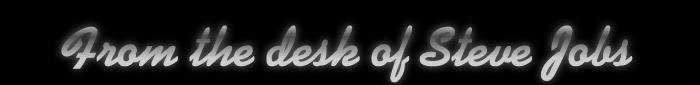
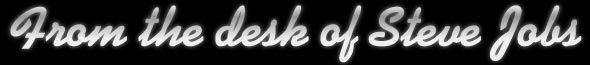
added captions, debugging

diff --git a/public/javascripts/application.js b/public/javascripts/application.js
@@ -10,7 +10,7 @@ function Game() {
     game.paused       = true;
     game.defeated     = false;
     game.limit        = 30000; //milliseconds
-    game.score        = 0;
+    game.score        = 60;
     game.steve        = new Steve(game);
     game.fireball     = new Fireball(game);
     game.input        = new Input(game);
@@ -22,6 +22,7 @@ function Game() {
     game.timer.initialize();
     
     game.show_hud("intro");
+    $("#defeat").hide();
   };
   
   this.show_hud = function(page) {
@@ -33,8 +34,9 @@ function Game() {
     } else if (page == "help") {
       $(".start").unbind("click").click(function(){ game.start(); });
     } else if (page == "results") {
-      $(".score").html( this.score + "<span>emails sent</span>");
+      $(".score").html("<strong>" + this.score + "</strong><span>emails sent!</span><span class='caption'>" + this.get_caption(this.score) + "</span>");
       $(".try_again").unbind("click").click(function(){ game.reset(); });
+      this.initialize_sharing();
     }
   };
   
@@ -81,8 +83,10 @@ function Game() {
     
   this.defeat = function() {
     if (this.defeated==false) {
+      var game = this;
       $("#game").hide();
       $("#defeat").show();
+      $(".try_again").unbind("click").click(function(){ game.reset(); });
       this.defeated     = true;
       this.allow_input  = false;
       this.steve.stop();
@@ -108,53 +112,32 @@ function Game() {
     this.score+=1;
   };
   
-  this.tally_results = function() {
-    var game    = this;
-    
-    $("h3","#results").remove();
-    $("h1","#results").remove();
-    $("p","#results").remove();
-    
-    var results = $("#results").fadeIn(500);
-    var title   = $("<h1 class='title'>GAME OVER!</h1>").appendTo(results);
-    
-    results.oneTime(3000, function(){ 
-      loading.remove();
+  this.initialize_sharing = function() {
+    var game = this;
       
-      var try_again     = $("<div></div>").addClass("bttn_restart").text("TRY AGAIN").click(function(){
-        results.fadeOut(500);
-        game.start();
-      }).appendTo(results);
-      
-      var restart_game  = $("<div></div>").addClass("quit").text("Quit ...").click(function(){
-          game.reset();
-      }).appendTo(results);
-      
-      $("#share","#results").click(function(){
-        FB.ui({
-            method    : 'stream.publish',
-            attachment: {
-              name  : 'From the Desk of Steve Jobs',
-              caption: 'I wrote ' + game.score + ' emails from the desk of Steve Jobs!',
-              description : ( game.score + " emails sent in " + game.max_time + " seconds, averaging " + (game.score/game.max_time) + " emails/second." ),
-              href: 'http://stevejobs.syndeolabs.com/'
-            },
-            action_links: [
-              { text: 'Go, Fireball!', href: 'http://stevejobs.syndeolabs.com/' }
-            ]
+    $(".share").click(function(){
+      FB.ui({
+          method    : 'stream.publish',
+          attachment: {
+            name  : 'From the Desk of Steve Jobs',
+            caption: 'I wrote ' + game.score + ' emails from the desk of Steve Jobs!',
+            description : ( game.score + " emails sent in " + game.max_time + " seconds, averaging " + (game.score/game.max_time) + " emails/second." ),
+            href: 'http://stevejobs.syndeolabs.com/'
           },
-          function(response) {
-            if (response && response.post_id) {
-              alert('Post was published.');
-            } else {
-              alert('Post was not published.');
-            }
+          action_links: [
+            { text: 'Go, Fireball!', href: 'http://stevejobs.syndeolabs.com/' }
+          ]
+        },
+        function(response) {
+          if (response && response.post_id) {
+            alert('Post was published.');
+          } else {
+            alert('Post was not published.');
           }
-        );
-      }); 
+        }
+      );
+    }); 
 
-    });
-    
   };
   
   this.initialize_behaviours = function() {
@@ -165,18 +148,26 @@ function Game() {
     });
   };
   
-  this.get_caption = function() {
+  this.get_caption = function(score) {
     
-    var win_captions  = ["Is that you, Gruber?","The real Fake Steve is in da house!","You took the words right out of Steve's mouth."];
-    var lose_captions = ["You're a Flash fan aren't you?", "You've been spending too much time with Outlook, son.", "Go back to designing magic mice."];
-    
-    if (this.score > this.goal) {
-      return win_captions[Math.floor(Math.random()*win_captions.length)];
-    } else if (this.score < this.goal) {
-      return lose_captions[Math.floor(Math.random()*lose_captions.length)];
-    } else {
-      return "Your AppleTV team needs you.";
+    if (score > 70) {
+      return "Is that you, Gruber?";
+    } else if (score > 50 && score <= 69) {
+      return "You're an Apple Genius!";
+    } else if (score > 40 && score <= 49) {
+      return "You took the words right out of Steve's mouth.";
+    } else if (score > 30 && score <= 39) {
+      return "Not bad, for a dog.";
+    } else if (score > 20 && score <= 29) {
+      return "You've been spending too much time with Outlook.";
+    } else if (score > 10 && score <= 19) {
+      return "Type faster, Fireball!";
+    } else if (score > 5 && score <= 9) {
+      return "Too slow, Fireball. Keep trying."
+    } else if (score < 4) {
+      return "You're a Flash fan aren't you?";
     }
+    
   };
 }
 
@@ -273,12 +264,12 @@ function Steve(game) {
       everyTime(200,function(){
         $(this).toggleClass("half_awake_1").toggleClass("half_awake_2");
         if (steps < search_start) {
-          console.log(steps + " STARTING TO SEARCH ...");
+          //console.log(steps + " STARTING TO SEARCH ...");
         } else if (steps>=search_start && steps<=search_end) {
-          console.log(steps + " SEARCHING...");
+          //console.log(steps + " SEARCHING...");
           if (st.game.paused==false) st.game.defeat();        
         } else if (steps>search_end) {
-          console.log(steps + " STOPPING...");
+          //console.log(steps + " STOPPING...");
           $(this).removeClass("half_awake_1").removeClass("half_awake_2");
           $(this).stopTime();
           st.start();
@@ -352,7 +343,7 @@ function Timer(game) {
   this.limit     = game.limit;
   
   this.initialize = function() {
-    this.dom.text(Math.round(this.limit/1000));
+    this.dom.removeClass("urgent").text(Math.round(this.limit/1000));
     this.stop();
   };
   this.render = function() {

diff --git a/public/stylesheets/application.css b/public/stylesheets/application.css
@@ -18,7 +18,7 @@ p { color:#fff; font-size:14px; }
 #share { margin-bottom:10px; }
 #loader { display:block; width:1px; height:1px; }
 
-h1 { background:url(/images/title.jpg); display:block; width:100%; height:85px; text-indent: -2000px}
+h1 { background:url(/images/title.jpg) no-repeat center center; display:block; width:100%; height:85px; text-indent: -2000px}
 #game div { display:block; position:absolute; background-repeat:no-repeat }
 #lamp { background:url(/images/lamp.png); width:363px; height:505px; top:70px; left:0px; z-index:8 }
 #desk { background:url(/images/desk.jpg); width:100%; height:195px; bottom:0px; left:0px; z-index:1; }
@@ -61,6 +61,10 @@ strong { color:#fc0; }
 .help { background:url(/images/go.png) no-repeat; width:170px; height:80px; top:300px; left:170px; position:absolute; cursor:pointer; z-index:9; }
 #email_sent { background:#ffc; padding:10px; position:absolute; top:560px; left:300px; width:80px; height:20px; text-align:center; font-size:14px; font-weight:bold; color:#333; z-index:15; opacity:0.0}
 
-.results .score { font-size:84px; color:#fff }
-.results .score span { font-size:24px; color:#999 }
-.results .try_again { top:350px; left:170px; }
+#hud .content .score strong { font-size:84px; color:#fff; display:block; line-height:1em }
+#hud .content .score span { font-size:24px; color:#aaa; display:block }
+#hud .content .score span.caption { color:#fff; margin-top:10px; }
+#hud .content .try_again { top:320px; left:130px; }
+
+.share { background:url(/images/facebook_64.png) no-repeat top left; padding:15px 5px 5px 70px; color:#fff; font-size:20px; height:44px; text-align:left; width:60%; margin:20px auto}
+.share:hover { color:#ccc }
